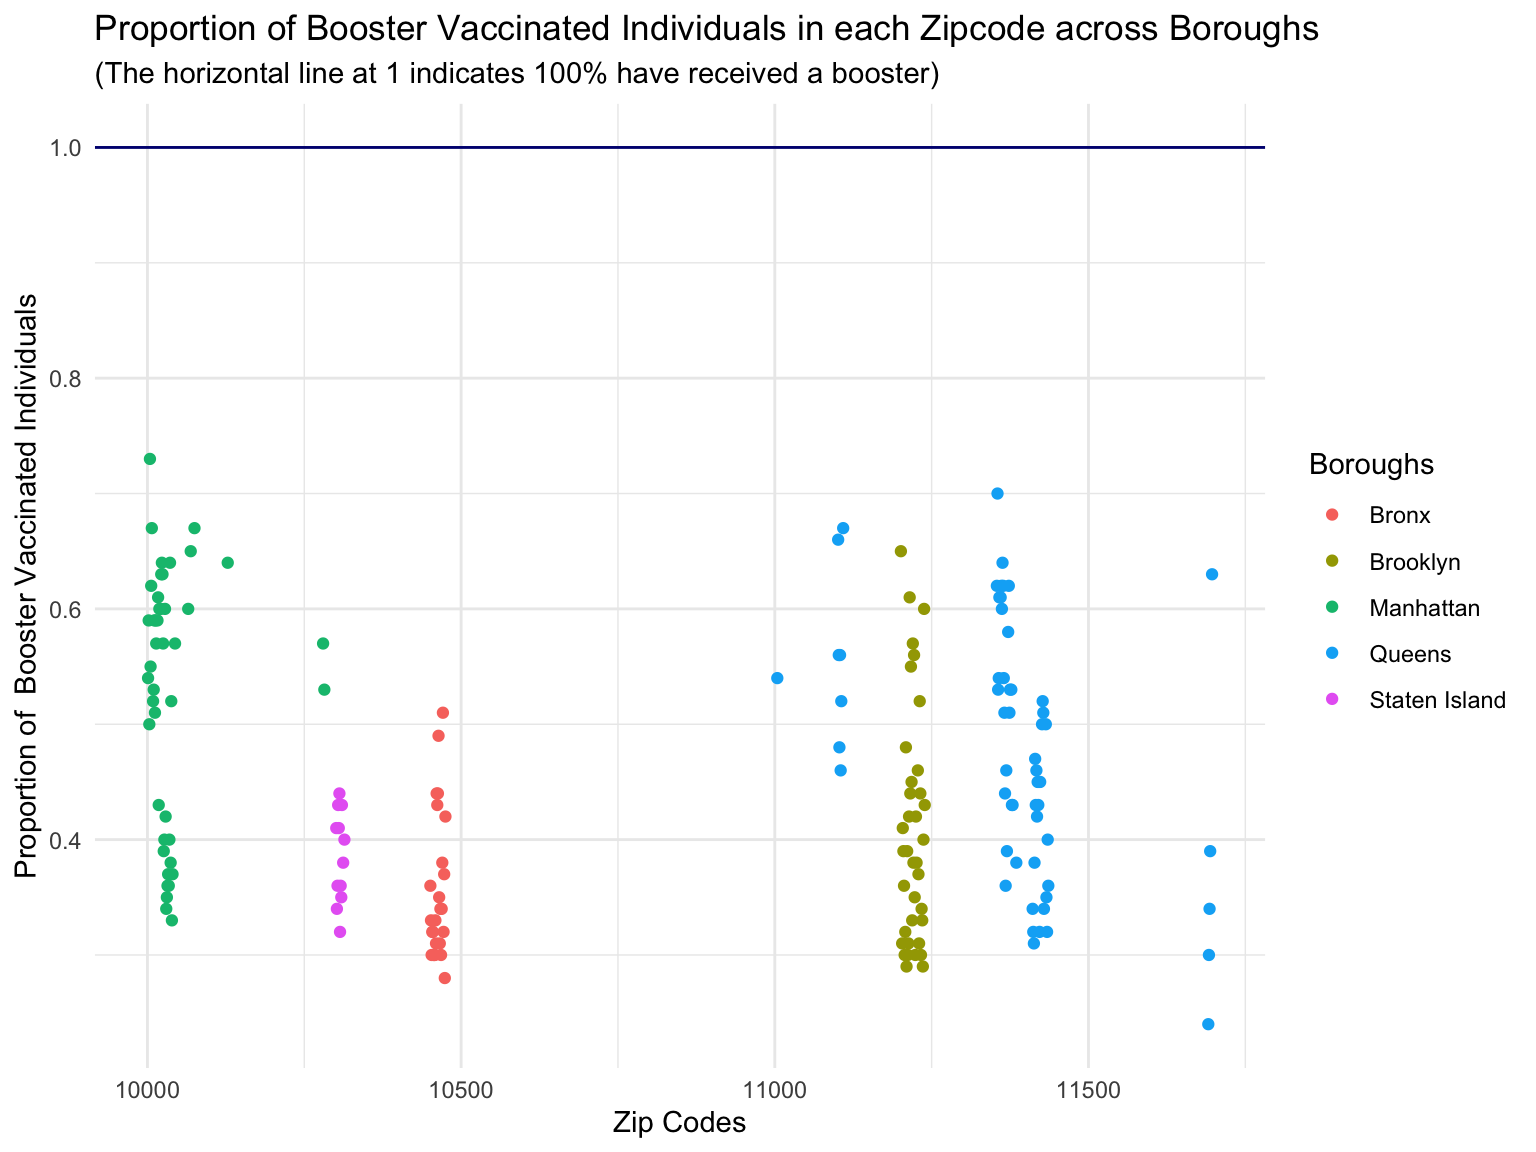
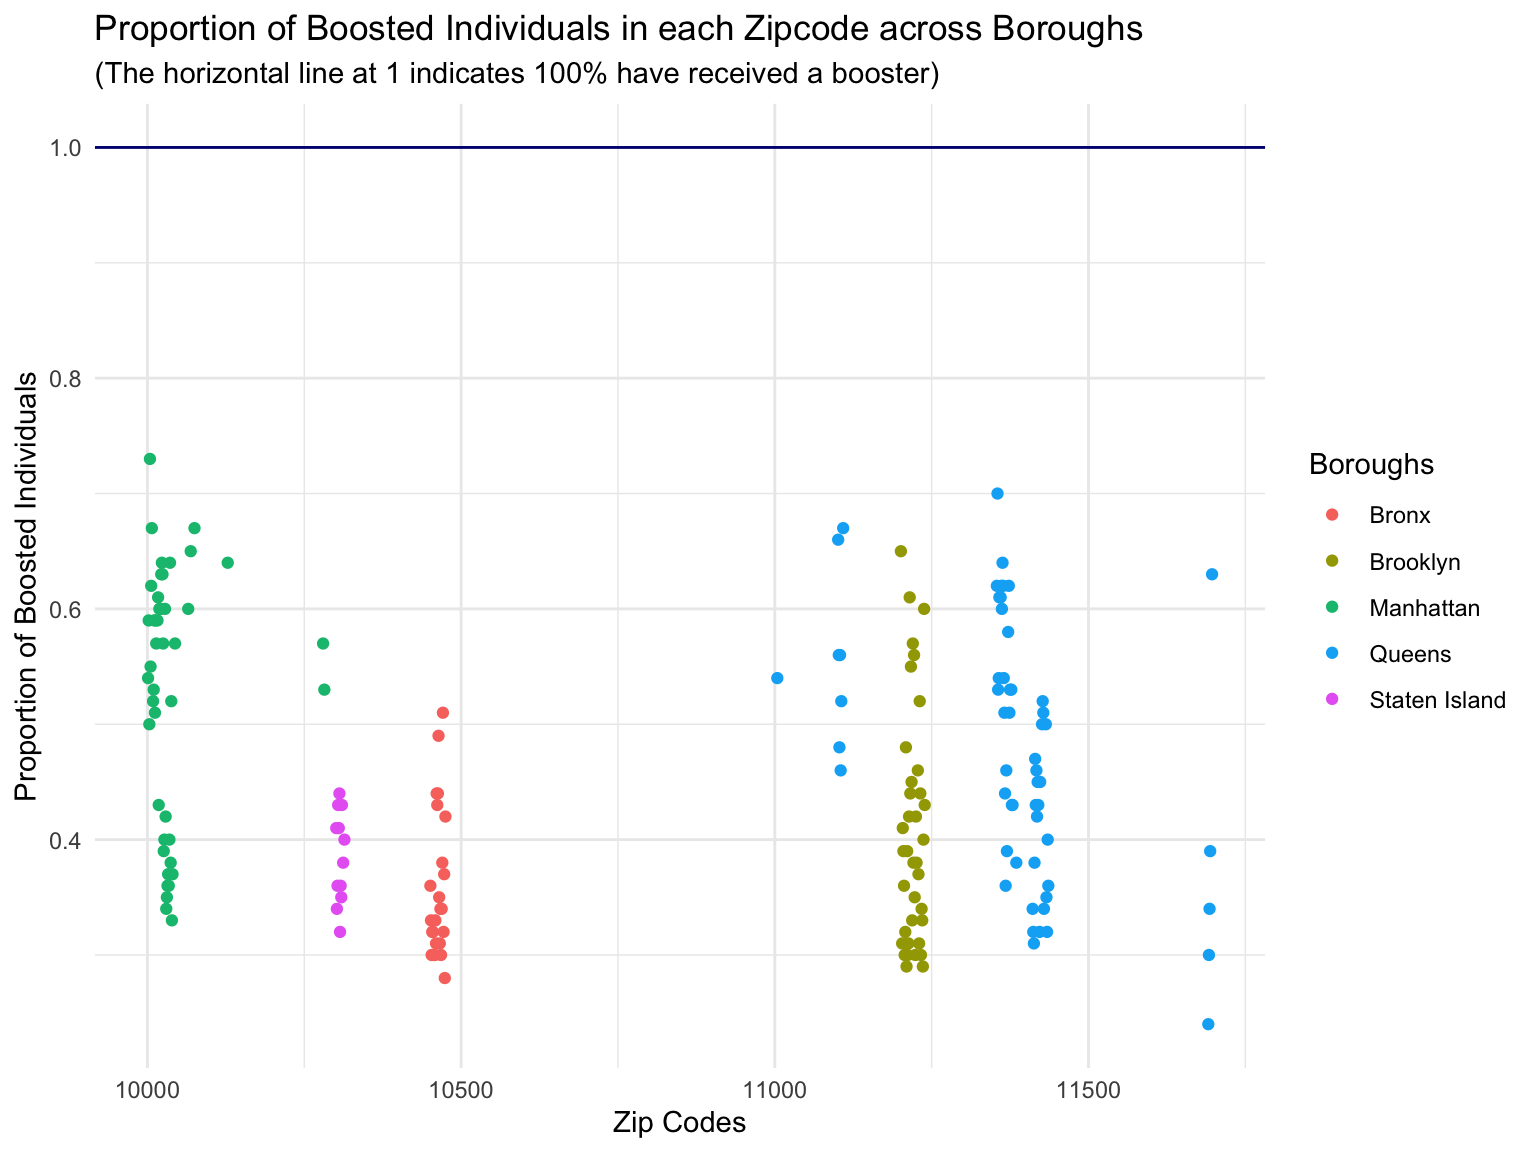
education ggplot changes

Changed region(s): [[0.2812, 0.0, 0.875, 0.0625], [0.0, 0.25, 0.0312, 0.75]]

diff --git a/Exploratory_Analysis.html b/Exploratory_Analysis.html
@@ -373,10 +373,8 @@ div.tocify {
 </div>
 
 
-<div id="general-vaccine-data-in-nyc-by-zipcode-and-boroughs"
-class="section level3">
-<h3><strong>General Vaccine Data in NYC by Zipcode and
-Boroughs</strong></h3>
+<div id="general-vaccine-data-in-nyc" class="section level3">
+<h3><strong>General Vaccine Data in NYC</strong></h3>
 <p>We began with a preliminary data exploration of the proportion of
 individuals who were fully vaccinated and received boosters across
 different zipcodes in each borough by 3.09.22 (90 days after the booster
@@ -401,11 +399,9 @@ fully vaccinated more than once.</p></li>
 </ol>
 <p><img src="Exploratory_Analysis_files/figure-html/unnamed-chunk-2-1.png" width="90%" /></p>
 </div>
-<div
-id="additionalbooster-vaccinated-individuals-by-zipcode-and-boroughs"
+<div id="additionalboosted-individuals-by-zipcode-and-boroughs"
 class="section level4">
-<h4>Additional/Booster Vaccinated Individuals by Zipcode and
-Boroughs:</h4>
+<h4>Additional/Boosted Individuals by Zipcode and Boroughs:</h4>
 <p>Boosted: The graph below shows the proportion of people fully boosted
 (y-axis) in each zip code (x-axis) with colors indicating the borough.
 This data was collected as of 3.09.22, 90 days after the booster was
@@ -423,11 +419,8 @@ class="section level4">
 across different demographic characteristics.</h4>
 </div>
 </div>
-<div
-id="the-education-attainment-in-nyc-by-vaccination-status-and-boroughs"
-class="section level3">
-<h3><strong>1. The Education Attainment in NYC by Vaccination Status and
-Boroughs</strong></h3>
+<div id="education" class="section level3">
+<h3><strong>1. Education </strong></h3>
 <p>First, we used an education dataset from the 2020 US census to
 understand patterns in educational attainment with full vaccination or
 booster status. In these graphs each dot represents a zip code region.
@@ -437,21 +430,58 @@ particular education status per zip code is on the x-axis.</p>
 <div id="fully-vaccinated-individuals-by-education-status-and-age"
 class="section level4">
 <h4>Fully Vaccinated Individuals by Education Status and Age</h4>
+<p>Plot 1a below shows the proportion of fully vaccinated individuals by
+education status (the colors), split across age. We observe that while
+individuals across education receive full vaccinations, the communities
+with higher proportions of individuals with above a high school
+education tend to seek multiple rounds of full vaccinations.</p>
 <p><img src="Exploratory_Analysis_files/figure-html/unnamed-chunk-5-1.png" width="90%" /></p>
 </div>
-<div id="additionalbooster-individuals-by-education-status-and-age"
+<div id="additionalboosted-individuals-by-education-status-and-age"
 class="section level4">
-<h4>Additional/Booster Individuals by Education Status and Age</h4>
+<h4>Additional/Boosted Individuals by Education Status and Age</h4>
+<p>Plot 1b shows the proportion of boosted individuals by education
+status (the colors), split across age. Overall we observe that in
+neighborhoods where there is a higher proportion of individuals with
+above a high school education, a higher proportion of individuals
+appeared to receive a booster within the first 90 days.</p>
 <p><img src="Exploratory_Analysis_files/figure-html/unnamed-chunk-6-1.png" width="90%" /></p>
+<p>Next we explored how education and vaccination status might vary
+across boroughs. Overall, Manhattan appears to have neighborhoods with
+higher proportions of college educated individuals. Neighborhoods in
+Staten Island and the Bronx had higher proportions of high school and
+some college education.</p>
+<p>As before, the proportion of individuals with a particular vaccine
+status (y-axis) is plotted against the proportion of individuals with a
+particular education status (x-axis) in each zip code. The color
+indicates the borough.</p>
 </div>
 <div id="fully-vaccinated-individuals-by-education-status-and-boroughs"
 class="section level4">
 <h4>Fully Vaccinated Individuals by Education Status and Boroughs</h4>
+<p>Plot 1c shows the proportion of fully vaccinated individuals by
+boroughs (color), spilt by their education status. While neighborhoods
+in all boroughs had full vaccination rates, neighborhoods where
+individuals who received multiple rounds of full vaccines tended to in
+Manhattan neighborhoods with a highly educated neighborhood composition.
+Communities in the Bronx and Staten Island had higher proportions of
+high school and some college education and seemed in the mid range for
+receiving full vaccinations.</p>
+<p>Interestingly, neighborhoods with the lowest proportion of
+individuals who received full vaccinations were in Brooklyn and Queens.
+These communities appear to contain a relatively even mix of individuals
+across the spectrum of education experience.</p>
 <p><img src="Exploratory_Analysis_files/figure-html/unnamed-chunk-7-1.png" width="90%" /></p>
 </div>
-<div id="additionalbooster-individuals-by-education-status-and-boroughs"
+<div id="additionalboosted-individuals-by-education-status-and-boroughs"
 class="section level4">
-<h4>Additional/Booster Individuals by Education Status and Boroughs</h4>
+<h4>Additional/Boosted Individuals by Education Status and Boroughs</h4>
+<p>Plot 1d shows the proportion of boosted individuals by boroughs
+(color), spilt by their education status. Based on these graphs, it
+appears that across all boroughs neighborhoods with educational
+attainment had a greater proportion of individuals receiving the
+booster. As before, Brooklyn and Queens had both the most highly boosted
+and least boosted neighborhoods in the city.</p>
 <p><img src="Exploratory_Analysis_files/figure-html/unnamed-chunk-8-1.png" width="90%" /></p>
 </div>
 </div>
